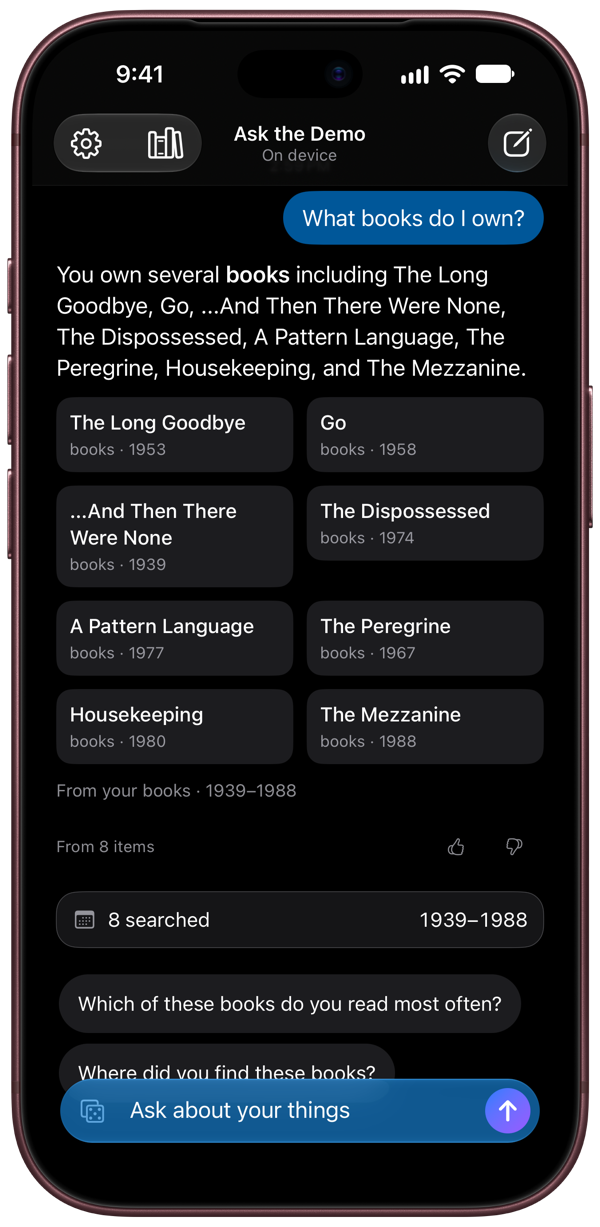
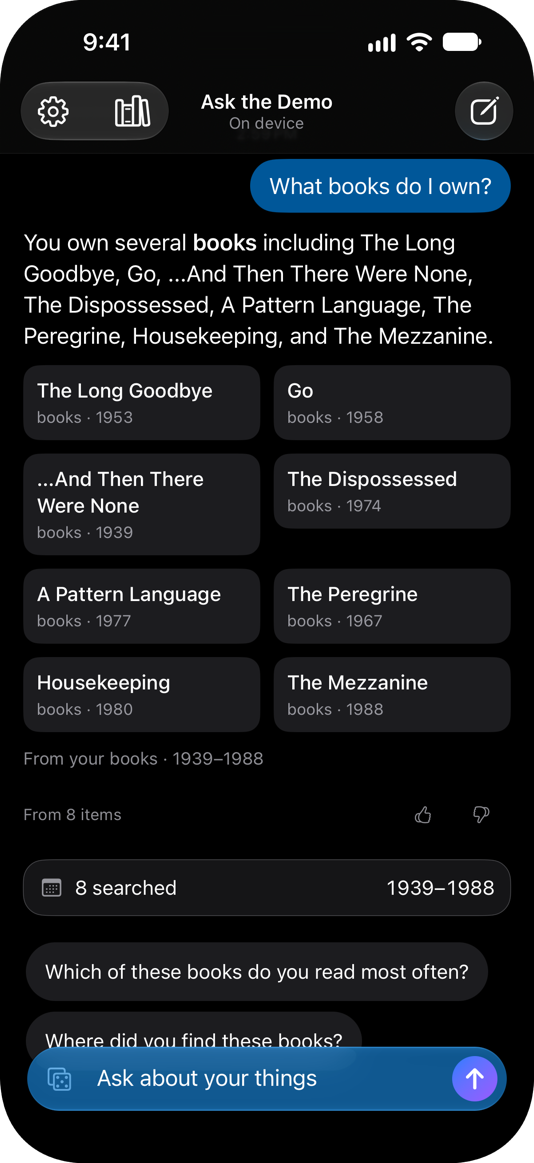
README's iPhone images are the screen alone, with no device around it
The six images lose the iPhone 18 Pro frame: each is the screen cropped out of
the framed image, 534x1163, its corners clear to the display's shape. The
frame's Dynamic Island goes with it, filled with the bar's background as a
plain simulator capture has it there.

DEMO-PROJECT.md's retake steps capture the screen and clear its corners in
place of framing it.

diff --git a/docs/DEMO-PROJECT.md b/docs/DEMO-PROJECT.md
@@ -230,8 +230,8 @@ with the next one.
 ## Imaging the iPhone screen
 
 The README's six iPhone images are an iPhone 18 Pro simulator (iOS 27.2), each shot in light
-(`iphone-<shot>.png`) and dark (`iphone-<shot>-dark.png`), framed with
-[`frames`](https://github.com/viticci/frames-cli) and scaled to 600x1227:
+(`iphone-<shot>.png`) and dark (`iphone-<shot>-dark.png`): the screen alone, with no device around
+it, its corners clear to the display's shape, scaled to 534x1163:
 - `first`: the library's first screen, nothing asked;
 - `answer`: a live answer from the on-device model to a starter, "What records do I own?" in light and
   "What books do I own?" in dark ("What tools do I own?" came back padded in every take);
@@ -275,13 +275,18 @@ simulator for the whole run, so no test or other app comes to the front on it.
    bottom (116 pt). That puts the turn's time under the bar, and the last follow-up runs under the
    composer's glass, as a chat's does. A drag on the thread is less precise, and one on the answer's
    words selects them.
-5. Capture and frame. `frames` matches the 1206x2622 capture to the iPhone 18 Pro frame in Burgundy,
-   its default, at 1350x2760; scale that to 600x1227:
+5. Capture the screen and clear its corners. A plain capture is the whole 1206x2622 rectangle, with
+   the pixels the display's corners hide. One taken with `--mask=alpha` has those corners clear, but
+   paints the Dynamic Island as a black pill between the clock and the status icons. So take both,
+   use ImageMagick (`brew install imagemagick`) to give the plain capture the masked one's alpha,
+   which is opaque across the island, and scale the result to 534x1163:
 
    ```sh
    xcrun simctl io <udid> screenshot iphone-raw.png
-   frames frame iphone-raw.png --output framed/
-   sips -z 1227 600 framed/iphone-raw_framed.png --out iphone-answer.png
+   xcrun simctl io <udid> screenshot --mask=alpha iphone-mask.png
+   magick iphone-raw.png \( iphone-mask.png -alpha extract \) -alpha off \
+     -compose CopyOpacity -composite iphone-cut.png
+   sips -z 1163 534 iphone-cut.png --out iphone-answer.png
    ```
 
 6. Put the simulator back: `xcrun simctl status_bar <udid> clear`, its own appearance, the app's
